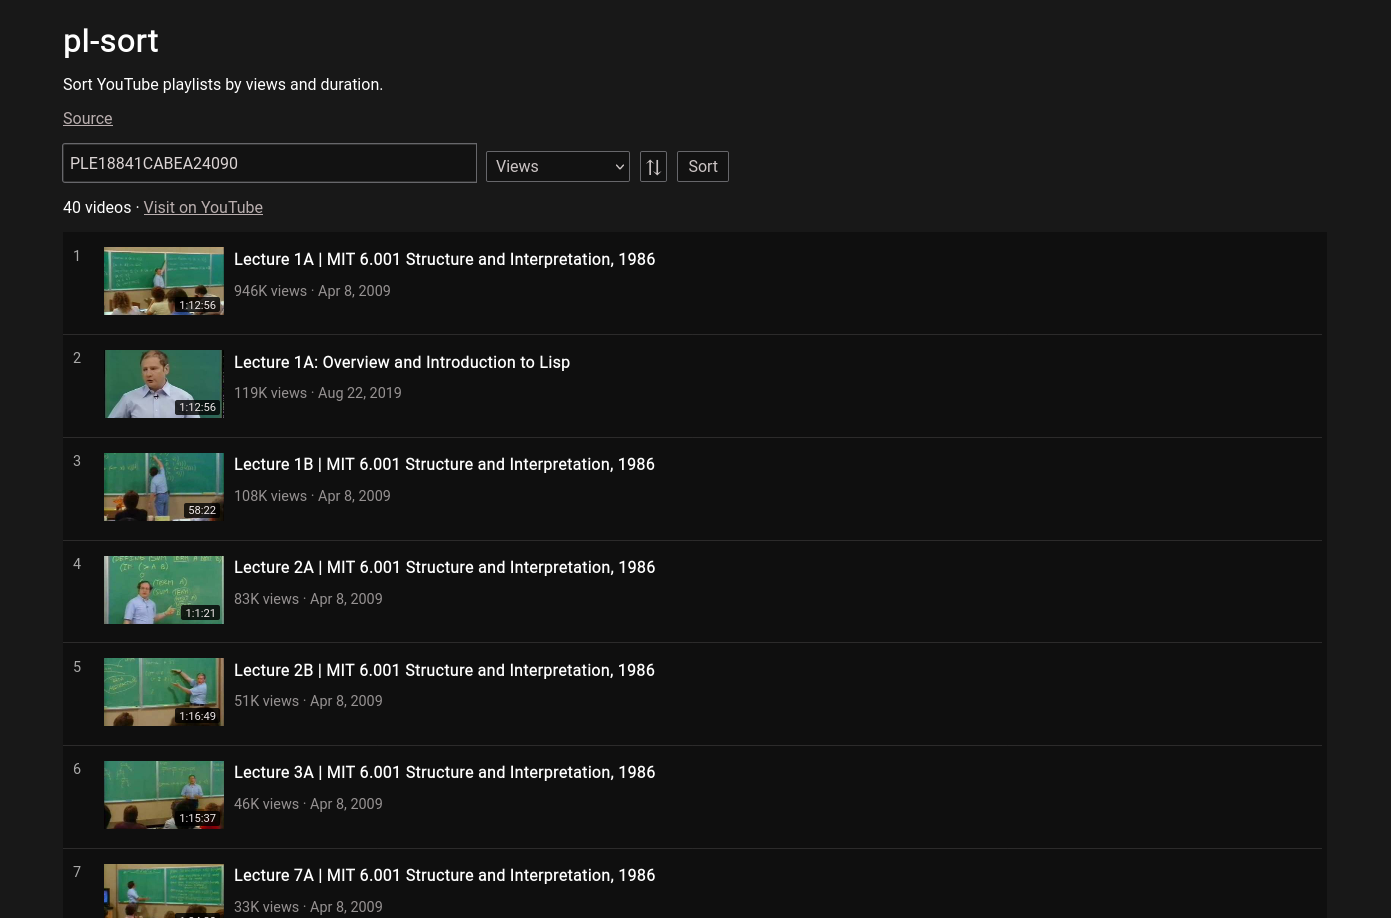
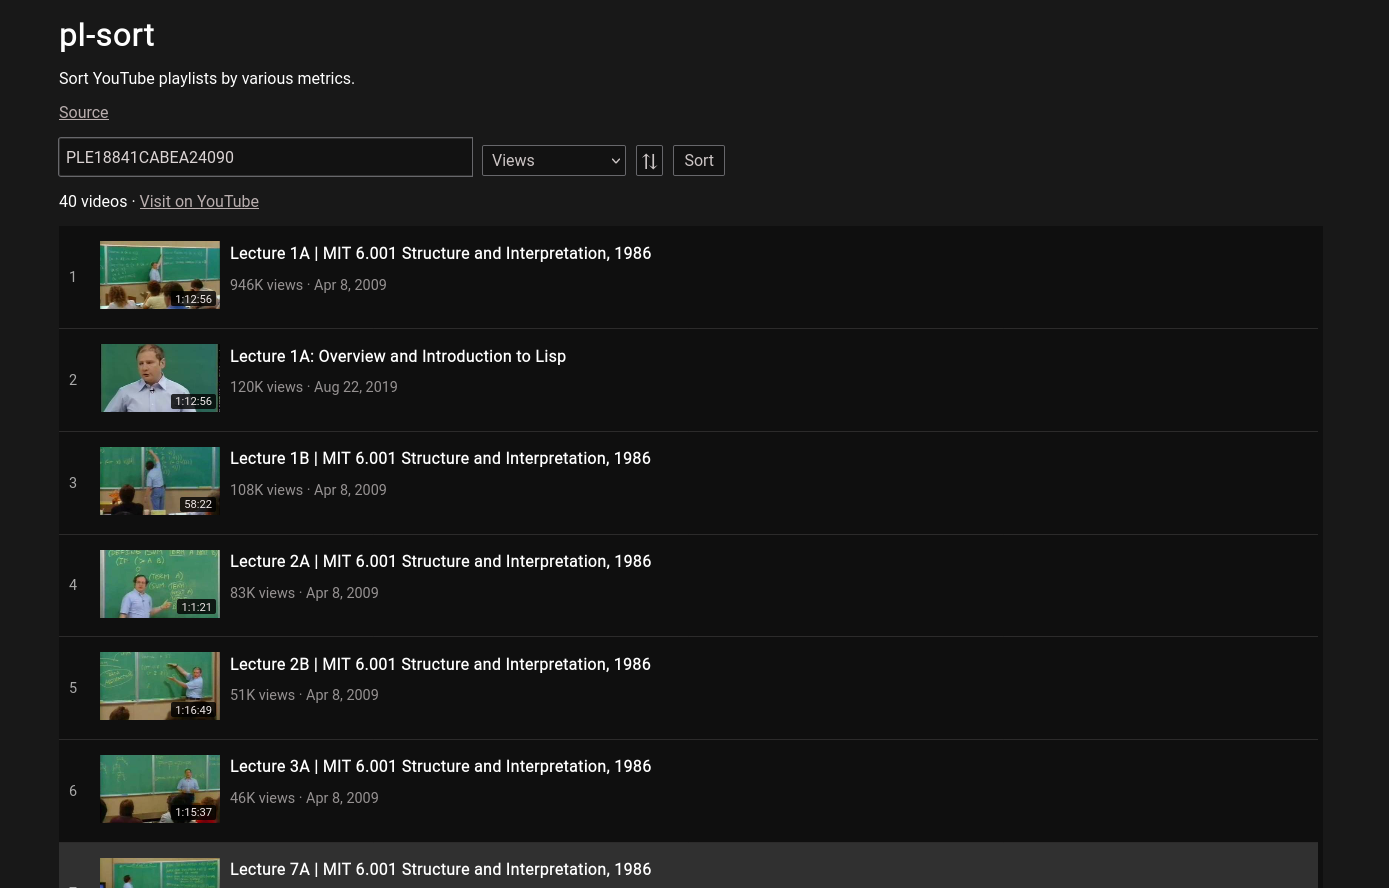
fix: minor fixes

diff --git a/src/app.js b/src/app.js
@@ -28,7 +28,7 @@ const App = () => {
   const [error, setError] = useState(null);
   const [response, setResponse] = useState([]);
 
-  let displayData;
+  let displayData = [];
   if (response) {
     displayData =
       formData.sortBy === 'views'
@@ -45,7 +45,8 @@ const App = () => {
         ? [...response].sort(
             (a, b) => new Date(b.publishedAt) - new Date(a.publishedAt)
           )
-        : response;
+        : [...response];
+
     if (formData.sortOrder === 'reversed') {
       displayData.reverse();
     }
@@ -92,7 +93,7 @@ const App = () => {
     <div className={styles.container}>
       <h1>pl-sort</h1>
       <div>
-        <p>Sort YouTube playlists by views and duration.</p>
+        <p>Sort YouTube playlists by various metrics.</p>
         <div>
           <a href='https://github.com/rsapkf/pl-sort'>Source</a> <br />
         </div>
@@ -106,49 +107,51 @@ const App = () => {
           value={formData.playlistId}
           onChange={onChange}
           className={styles.playlistId}
+          autoFocus
         />
-        <select
-          name='sortBy'
-          id='sortBy'
-          defaultValue={formData.sortBy}
-          onChange={onChange}
-          className={styles.sortBy}
-        >
-          <option value='views'>Views</option>
-          <option value='duration'>Duration</option>
-          <option value='title'>Title</option>
-          <option value='date'>Date published</option>
-          <option value='likes'>Likes</option>
-          <option value='comments'>Comments</option>
-          <option value='default'>Default</option>
-        </select>
-        {displayData.length > 0 && (
-          <button
-            type='button'
-            title='Reverse the order'
-            name='sortOrder'
-            id='sortOrder'
-            defaultValue={formData.sortOrder}
-            onClick={() =>
-              setFormData({
-                ...formData,
-                sortOrder:
-                  formData.sortOrder === 'default' ? 'reversed' : 'default',
-              })
-            }
-            className={styles.sortOrder}
+        <div className={styles.options}>
+          <select
+            name='sortBy'
+            id='sortBy'
+            defaultValue={formData.sortBy}
+            onChange={onChange}
+            className={styles.sortBy}
           >
-            ⇅
+            <option value='views'>Views</option>
+            <option value='duration'>Duration</option>
+            <option value='title'>Title</option>
+            <option value='date'>Date published</option>
+            <option value='likes'>Likes</option>
+            <option value='comments'>Comments</option>
+            <option value='default'>Default</option>
+          </select>
+          {displayData.length > 0 && (
+            <button
+              type='button'
+              title='Reverse the order'
+              name='sortOrder'
+              id='sortOrder'
+              onClick={() =>
+                setFormData((formData) => ({
+                  ...formData,
+                  sortOrder:
+                    formData.sortOrder === 'default' ? 'reversed' : 'default',
+                }))
+              }
+              className={styles.sortOrder}
+            >
+              ⇅
+            </button>
+          )}
+          <button
+            type='submit'
+            title='Submit'
+            className={styles.submit}
+            disabled={formData.disabled}
+          >
+            Sort
           </button>
-        )}
-        <button
-          type='submit'
-          title='Submit'
-          className={styles.submit}
-          disabled={formData.disabled}
-        >
-          Sort
-        </button>
+        </div>
       </form>
       {loading && (
         <div className={styles.loading}>

diff --git a/src/app.module.css b/src/app.module.css
@@ -21,6 +21,7 @@ select {
   cursor: pointer;
   border: 1px solid rgb(103, 103, 107);
   border-radius: 2px;
+  font-family: inherit;
 }
 
 button:hover {
@@ -38,15 +39,16 @@ button:hover {
   color: rgb(240, 233, 233);
   text-decoration: none;
   overflow-x: hidden;
+  padding-right: 5px;
 }
 
-.result {
-  padding-right: 5px;
+.result:not(:last-child) {
+  border-bottom: 1px solid rgba(160, 156, 156, 20%);
 }
 
 .resultIndex {
   display: flex;
-  align-items: center;
+  align-self: center;
   margin-left: 10px;
   margin-right: 5px;
   color: #aaaaaa;
@@ -59,7 +61,6 @@ button:hover {
   align-items: flex-start;
   gap: 10px;
   padding: 15px 0;
-  border-bottom: 1px solid rgba(160, 156, 156, 20%);
 }
 
 .resultLink:hover {
@@ -112,6 +113,13 @@ button:hover {
   align-items: flex-end;
 }
 
+.options {
+  display: flex;
+  flex-wrap: wrap;
+  gap: 10px;
+  align-items: stretch;
+}
+
 .loading {
   margin-top: 3rem;
   display: flex;
@@ -141,18 +149,16 @@ button:hover {
 }
 
 .sortBy {
-  padding: 5px 5px 5px;
+  padding: 5px 0 5px 5px;
   font-size: 1rem;
-  font-family: inherit;
 }
 
 .sortOrder {
-  padding-top: 3px;
+  padding: 1px 6px;
   font-size: 1.3rem;
 }
 
 .submit {
   font-size: 1rem;
-  font-family: inherit;
   padding: 5px 10px;
 }

diff --git a/src/utils/sec-to-hhmmss.js b/src/utils/sec-to-hhmmss.js
@@ -5,7 +5,7 @@ export const secToHHMMSS = (totalSeconds) => {
   let seconds = Math.floor(totalSeconds % 60);
 
   hours = hours === 0 ? `` : `${hours}:`;
-  minutes = minutes < 1 ? `0` : minutes;
+  minutes = hours && minutes < 10 ? `0${minutes}` : minutes;
   seconds = seconds < 10 ? `0${seconds}` : seconds;
 
   return `${hours}${minutes}:${seconds}`;

diff --git a/src/services/youtube-api.js b/src/services/youtube-api.js
@@ -29,9 +29,8 @@ export const getPlaylistVideosData = async (playlistId) => {
       break;
     }
 
-    let videoIds = [];
-    playlistRes.data.items.forEach((item) =>
-      videoIds.push(item.contentDetails.videoId)
+    const videoIds = playlistRes.data.items.map(
+      (item) => item.contentDetails.videoId
     );
 
     let vidRes;

diff --git a/README.md b/README.md
@@ -1,6 +1,6 @@
 # pl-sort
 
-[pl-sort](https://pl-sort.netlify.app) lets you sort public YouTube playlists by various metrics. It supports sorting by:
+[pl-sort](https://pl-sort.netlify.app) lets you sort public YouTube playlists by:
 
 - Views
 - Duration
